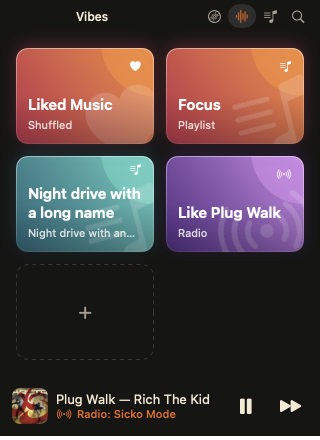
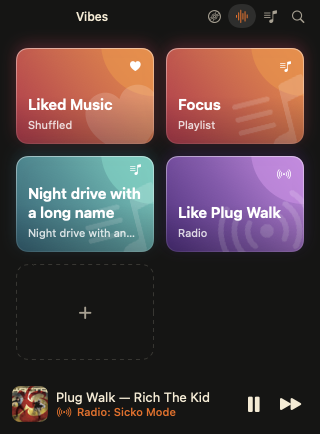
The source line says the kind first and leads to the source; a playing tile ignores a click
"Vibe: Focus", "Playlist: Night drive", "Album: …", "Artist: …", "Radio:
<track>": the line under the track in the strip, along the bottom of Now
Playing, in the menu bar and in the widget all say what kind of thing
the music comes from, in one wording (SourceLabel.text). The radio's
name no longer carries its own prefix.

A click on the line at the bottom of Now Playing goes to the source: the
Vibe page, the playlist's tracks, the album's or the artist's page
(SourceLabel.destination: the playlist's ID, the browse ID an Explore
item was played with, the artist's channel). A radio has no page. A
hairline parts the line from the controls.

A click on the vibe tile that plays does nothing: it played again from
the top.

Changed region(s): [[0.0, 0.8568, 1.0, 1.0], [0.875, 0.8864, 0.9375, 0.9455], [0.75, 0.8864, 0.8125, 0.9455]]

diff --git a/Sources/BSide/Player/PlayerController.swift b/Sources/BSide/Player/PlayerController.swift
@@ -138,7 +138,9 @@ final class PlayerController: NSObject, ObservableObject {
     private var currentShuffle = false
     private var savedSession: LastSession?
     /// Names of lists played from Explore, which are not in the library.
-    private var listTitles: [String: (title: String, kind: SourceLabel.Kind)] = [:]
+    /// What a list ID stands for, for the source line: its title and kind,
+    /// and where its page is (an album's browse ID, an artist's channel).
+    private var listTitles: [String: (title: String, kind: SourceLabel.Kind, page: String)] = [:]
     private var playlistsAsked = Date.distantPast
     private var askingHolding: Set<String> = []
     private var tracksHaveMore = false
@@ -463,7 +465,7 @@ final class PlayerController: NSObject, ObservableObject {
             case "artist": .artist
             default: .playlist
             }
-            listTitles[list] = (title, kind)
+            listTitles[list] = (title, kind, "")
         }
         unloaded = (currentTarget, session.position)
         nowPlaying.update(restored)
@@ -673,13 +675,14 @@ final class PlayerController: NSObject, ObservableObject {
         switch source {
         case .mood(let id):
             guard let mood = moods.first(where: { $0.id == id }) else { return nil }
-            return SourceLabel(kind: .vibe(colour: VibePalette.index(for: mood)), name: mood.name, symbol: mood.symbol)
+            return SourceLabel(kind: .vibe(colour: VibePalette.index(for: mood)), name: mood.name, symbol: mood.symbol,
+                               destination: mood.id)
         case .playlist(let id):
             if id == Tuning.likedMusicID {
-                return SourceLabel(kind: .playlist, name: "Liked Music", symbol: "heart.fill")
+                return SourceLabel(kind: .playlist, name: "Liked Music", symbol: "heart.fill", destination: id)
             }
             if let playlist = playlists.first(where: { $0.id == id }) {
-                return SourceLabel(kind: .playlist, name: playlist.title, symbol: "music.note.list")
+                return SourceLabel(kind: .playlist, name: playlist.title, symbol: "music.note.list", destination: id)
             }
             guard let known = listTitles[id] else { return nil }
             let symbol = switch known.kind {
@@ -687,10 +690,9 @@ final class PlayerController: NSObject, ObservableObject {
             case .artist: "music.mic"
             default: "music.note.list"
             }
-            return SourceLabel(kind: known.kind, name: known.title, symbol: symbol)
+            return SourceLabel(kind: known.kind, name: known.title, symbol: symbol, destination: known.page)
         case .radio(let title):
-            return SourceLabel(kind: .radio, name: title.isEmpty ? "Radio" : "Radio: \(title)",
-                               symbol: "dot.radiowaves.left.and.right")
+            return SourceLabel(kind: .radio, name: title.isEmpty ? "a track" : title, symbol: "dot.radiowaves.left.and.right")
         case .other, nil:
             return nil
         }
@@ -1040,7 +1042,7 @@ final class PlayerController: NSObject, ObservableObject {
 
     /// All of an artist's songs, from the first: their page's Play.
     func play(artist page: ArtistPage) {
-        play(list: page.songsPlaylistID, from: 0, title: page.name, kind: .artist)
+        play(list: page.songsPlaylistID, from: 0, title: page.name, kind: .artist, page: page.id)
     }
 
     /// A song plays with its radio after it, as in YouTube Music; an album
@@ -1049,7 +1051,7 @@ final class PlayerController: NSObject, ObservableObject {
         if !item.videoID.isEmpty {
             load(PlayTarget(videoID: item.videoID, listID: nil), from: .other, startAt: nil)
         } else if !item.playlistID.isEmpty {
-            listTitles[item.playlistID] = (item.title, item.kind == .album ? .album : .playlist)
+            listTitles[item.playlistID] = (item.title, item.kind == .album ? .album : .playlist, item.browseID)
             load(PlayTarget(videoID: nil, listID: item.playlistID), from: .playlist(item.playlistID), startAt: nil)
         }
     }
@@ -1062,9 +1064,9 @@ final class PlayerController: NSObject, ObservableObject {
 
     /// A playlist from one of its tracks on: an album, or all of an artist's
     /// songs, which their top songs are the start of.
-    func play(list id: String, from index: Int, title: String = "", kind: SourceLabel.Kind = .playlist) {
+    func play(list id: String, from index: Int, title: String = "", kind: SourceLabel.Kind = .playlist, page: String = "") {
         guard !id.isEmpty else { return }
-        if !title.isEmpty { listTitles[id] = (title, kind) }
+        if !title.isEmpty { listTitles[id] = (title, kind, page) }
         load(PlayTarget(videoID: nil, listID: id, startIndex: index), from: .playlist(id), startAt: nil)
     }
 

diff --git a/Sources/BSide/Views/Window/NowPlayingStrip.swift b/Sources/BSide/Views/Window/NowPlayingStrip.swift
@@ -44,7 +44,7 @@ struct NowPlayingStrip: View {
             .pointingHand()
             .help("Now Playing")
             .contextMenu { trackMenu }
-            .accessibilityLabel("Now Playing: \(line)" + (player.sourceLabel.map { ", from \($0.name)" } ?? ""))
+            .accessibilityLabel("Now Playing: \(line)" + (player.sourceLabel.map { ", \($0.text)" } ?? ""))
 
             // As tall as the artwork, 4 inside the panel, like it. The
             // transport buttons stand together; Like, which is not one of
@@ -107,9 +107,10 @@ struct NowPlayingStrip: View {
     }
 }
 
-/// What plays from where, in one line: a vibe's name in the vibe's colour,
-/// a playlist, an album, an artist or a radio in the accent. Under the
-/// track in the strip, and along the bottom of Now Playing.
+/// What plays from where, in one line, the kind first ("Vibe: Focus"): a
+/// vibe in the vibe's colour, a playlist, an album, an artist or a radio in
+/// the accent. Under the track in the strip, and along the bottom of Now
+/// Playing.
 struct SourceLine: View {
     let label: SourceLabel
     /// The caption under the track in the strip; the label on its own line.
@@ -119,7 +120,7 @@ struct SourceLine: View {
     var body: some View {
         HStack(spacing: Theme.Space.xxs) {
             Image(systemName: label.symbol)
-            Text(label.name)
+            Text(label.text)
         }
         .font(font)
         .fontWeight(.medium)
@@ -135,6 +136,32 @@ struct SourceLine: View {
             return colorScheme == .dark ? swatch.light : swatch.deep
         case .playlist, .album, .artist, .radio:
             return Theme.Colors.accentText
+        }
+    }
+}
+
+extension Navigation {
+    /// Goes where the music comes from: the Vibe page, the playlist's
+    /// tracks, an album's or an artist's page. A radio has no page.
+    @MainActor
+    func open(source label: SourceLabel, player: PlayerController) {
+        switch label.kind {
+        case .vibe:
+            page = .vibe
+        case .playlist:
+            guard !label.destination.isEmpty else { return }
+            let playlist = player.playlists.first { $0.id == label.destination }
+                ?? Playlist(id: label.destination, title: label.name, subtitle: label.destination == Tuning.likedMusicID ? "Auto playlist" : "")
+            player.open(playlist)
+            page = .playlists
+        case .album:
+            guard !label.destination.isEmpty else { return }
+            open(.collection(id: label.destination, title: label.name))
+        case .artist:
+            guard !label.destination.isEmpty else { return }
+            open(.artist(id: label.destination, name: label.name))
+        case .radio:
+            break
         }
     }
 }

diff --git a/Sources/BSide/Views/NowPlaying/NowPlayingPage.swift b/Sources/BSide/Views/NowPlaying/NowPlayingPage.swift
@@ -82,10 +82,18 @@ struct NowPlayingPage: View {
             if player.sourceLabel != nil || outputs.elsewhere != nil {
                 HStack(spacing: Theme.Space.xs) {
                     if let label = player.sourceLabel {
-                        SourceLine(label: label, font: Theme.Text.label)
-                            .id(label)
-                            .transition(.opacity)
-                            .help("Playing from \(label.name)")
+                        // A click goes to the source; a radio has no page.
+                        let goes = label.kind != .radio && !label.destination.isEmpty
+                        Button { navigation.open(source: label, player: player) } label: {
+                            SourceLine(label: label, font: Theme.Text.label)
+                                .contentShape(Rectangle())
+                        }
+                        .buttonStyle(.plain)
+                        .pointingHand(goes)
+                        .disabled(!goes)
+                        .id(label)
+                        .transition(.opacity)
+                        .help(goes ? "Show \(label.name)" : label.text)
                     }
                     Spacer(minLength: 0)
                     if let device = outputs.elsewhere {
@@ -100,6 +108,7 @@ struct NowPlayingPage: View {
                 .frame(height: Theme.Size.sourceBar)
                 .frame(maxWidth: .infinity)
                 .barGlass(joined: .bottom)
+                .overlay(alignment: .top) { Divider() } // a line between the controls and the bar
                 .animation(.easeInOut(duration: Theme.Motion.page), value: player.sourceLabel)
             }
         }

diff --git a/Sources/BSide/Views/Vibe/VibePage.swift b/Sources/BSide/Views/Vibe/VibePage.swift
@@ -109,7 +109,11 @@ struct VibePage: View {
             LazyVGrid(columns: columns, spacing: Theme.Space.s) {
                 ForEach(player.moods) { mood in
                     let locked = mood.needsAccount && player.account == .signedOut
-                    let play = { locked ? player.showSignIn() : player.play(mood) }
+                    // A click on the tile that plays does nothing: it plays
+                    // on, not again from the start.
+                    let play = {
+                        if locked { player.showSignIn() } else if player.source != .mood(mood.id) { player.play(mood) }
+                    }
                     // A click plays, a drag moves the tile: not a Button,
                     // which would keep the mouse and never let a drag start.
                     tile(mood)

diff --git a/Sources/BSide/Player/PlayerTypes.swift b/Sources/BSide/Player/PlayerTypes.swift
@@ -63,4 +63,21 @@ struct SourceLabel: Hashable {
     let kind: Kind
     let name: String
     let symbol: String
+    /// Where a click leads: a playlist's ID, an album's browse ID, an
+    /// artist's channel ID; empty when there is nowhere to go.
+    var destination = ""
+
+    /// What the kind is called before the name: "Vibe: Focus".
+    var kindName: String {
+        switch kind {
+        case .vibe: return "Vibe"
+        case .playlist: return "Playlist"
+        case .album: return "Album"
+        case .artist: return "Artist"
+        case .radio: return "Radio"
+        }
+    }
+
+    /// The whole line: "Playlist: Focus".
+    var text: String { "\(kindName): \(name)" }
 }

diff --git a/Sources/BSide/Player/WidgetFeed.swift b/Sources/BSide/Player/WidgetFeed.swift
@@ -60,7 +60,7 @@ enum WidgetFeed {
         state.isPlaying = player.state.isPlaying
         state.title = player.state.title
         state.artist = player.state.artist
-        state.source = player.sourceLabel?.name ?? ""
+        state.source = player.sourceLabel?.text ?? ""
         state.sourceSymbol = player.sourceLabel?.symbol ?? ""
         if state.hasTrack, let url = player.state.artworkURL {
             state.artwork = url == artworkFor ? current.artwork : await png(of: url)

diff --git a/Sources/BSide/Views/MenuBar/StatusMenu.swift b/Sources/BSide/Views/MenuBar/StatusMenu.swift
@@ -158,7 +158,7 @@ private struct StatusMenuHead: View {
                 if let label = player.sourceLabel {
                     HStack(spacing: Theme.Space.xxs) {
                         Image(systemName: label.symbol)
-                        Text(label.name)
+                        Text(label.text)
                     }
                     .font(Theme.Text.caption)
                     .foregroundStyle(.secondary) // tokens-ok: system menu

diff --git a/design/SCREENS.md b/design/SCREENS.md
@@ -37,12 +37,15 @@ make them 15% and 30% bigger, and the window's least size with them.
 - Like: a heart, always in view; orange and filled once liked. Not on the
   artwork's hover, which keeps Lyrics and Repeat. Hidden during an ad.
 - Along the bottom of the page, a glass line (32) with what plays from
-  where, in the label role, as the strip has it under the track on the
-  other pages: a vibe's name in its colour, a playlist, an album, an artist
-  or a radio in the accent (since 2026-10-03). At its other end, muted,
-  the device the sound goes to when it is not the Mac's own speakers
-  ("AirPods Pro"), so headphones left on are no mystery. The line shows
-  while either is there
+  where, in the label role, the kind first ("Vibe: Focus", "Playlist:
+  Night drive", "Album: …", "Artist: …", "Radio: <track>"), as the strip
+  has it under the track on the other pages: a vibe in its colour, the
+  rest in the accent (since 2026-10-03). A hairline above it parts it
+  from the controls. A click goes to the source: the Vibe page, the
+  playlist's tracks, the album's or the artist's page; a radio has no
+  page. At its other end, muted, the device the sound goes to when it is
+  not the Mac's own speakers ("AirPods Pro"), so headphones left on are
+  no mystery. The line shows while either is there
 - Up Next: a list button in a glass circle at the end of the transport row,
   mirroring the speaker at its start; both open something. It
   puts what plays next in the artwork's place (as Lyrics do; one of the two
@@ -120,7 +123,8 @@ way: the track's length, or the orange speaker on the one that plays.
 ## Screen: Vibe
 
 - User's job here: "start music for how I feel right now, in one click"
-- Primary action: click a tile
+- Primary action: click a tile. A click on the tile that plays does
+  nothing (since 2026-10-03; before, it started again from the top)
 - Under a tile's name: what it plays. For a vibe made from words, what it
   was heard as ("slow jazz, rainy"), or "From words" for a tile made before
   that was kept; never the words themselves, and never the name again
@@ -237,10 +241,11 @@ with no gap, Like 16 apart and muted, as it is not one of them. Command-L
 likes from anywhere. The line opens Now Playing. When something
 failed, the panel shows the message instead.
 
-Under the track, what it plays from: a vibe's name in the vibe's colour; a
-playlist, an album or an artist in the accent; "Radio: <track>" after Start
-Radio in a track's menu (since 2026-10-03), which stays while the radio
-plays on. A track played on its own has no such line.
+Under the track, what it plays from, the kind first ("Vibe: Focus",
+"Playlist: Night drive", "Album: …", "Artist: …", "Radio: <track>" after
+Start Radio in a track's menu, since 2026-10-03): a vibe's name in the
+vibe's colour, the rest in the accent. A track played on its own has no
+such line.
 
 A glass panel of its own (radius m), 8 inside the window edges, floating over
 the bottom of the page: the lists run under it and keep its height as scroll
